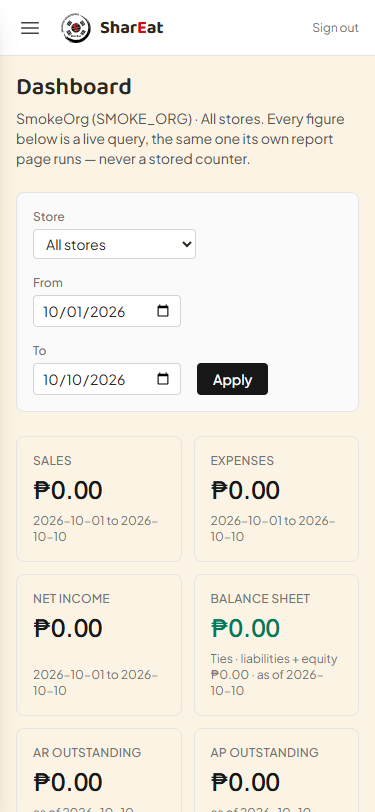
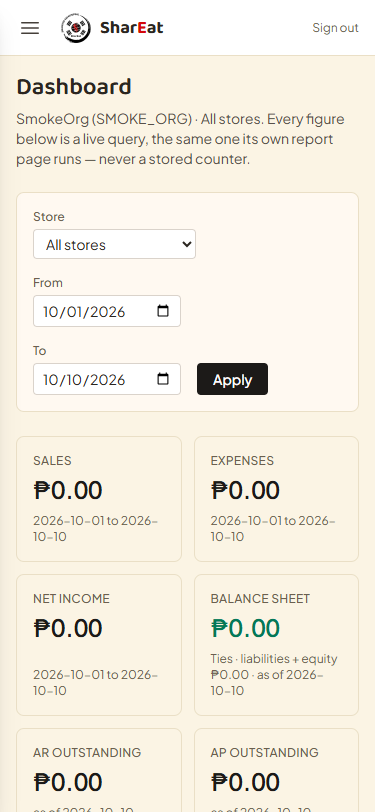
T-387 S1 addendum: re-value Tailwind's neutral ramp warm, so stock greys stop clashing with cream
Ian, after seeing S1: "go on and fix the clash in colors". The S1 screenshots showed the clash was
mostly stock neutral-* grey: 4,946 utilities in 154 of 171 files. Part of it was a regression:
stock text-neutral-500, the caption grey on 575 lines, is 4.34:1 on the new cream canvas, under AA.

One palette change fixes every file at once instead of sweeping 154 files ahead of the kit.
Six steps ARE ruled Amendment 7 tokens, chosen by how the app uses them (200/800 borders,
400/500 captions, 900/950 dark surface and canvas). The other five keep stock lightness in --ink's
warm hue, so no existing pair loses contrast. The test reads the anchors from globals.css.

Still S2 + S8: buttons stay near-black until they move onto Button (one brand-red primary per
view is a per-screen judgement, not a find-and-replace); stock emerald/amber/red banners and
badges until Banner/Badge. Screenshots refreshed.

diff --git a/apps/erp/tests/t387-s1-warm-neutral.test.ts b/apps/erp/tests/t387-s1-warm-neutral.test.ts
@@ -1,0 +1,108 @@
+/**
+ * T-387 S1 addendum: the stock `neutral` ramp, re-valued warm.
+ *
+ * ⭐ Why a ramp and not a sweep. 154 of 171 .tsx files carry 4,946 `neutral-*` utilities. On the
+ * cream canvas they read as cold grey islands, and one of them is worse than a look: stock
+ * `text-neutral-500` (575 lines, the caption colour) is 4.34:1 on `--canvas #fbf4e4`, under AA.
+ * Re-valuing the palette fixes every file at once, and S8 still moves the screens onto the kit.
+ *
+ * The rules this file holds the ramp to:
+ *   1. Where a step's job in the app IS a ruled token, it carries that token's hex exactly, read from
+ *      globals.css (never copied): 200 light borders, 400 dark captions, 500 light captions,
+ *      800 dark borders, 900 dark surface, 950 dark canvas.
+ *   2. Every other step keeps stock neutral's lightness (contrast against white within 3%), so no
+ *      existing text pair silently loses contrast.
+ *   3. The ramp gets darker at every step.
+ *   4. Captions clear AA where they are used: 500 on the light canvas, 400 on the dark surface.
+ */
+import { readFileSync } from 'node:fs';
+import { fileURLToPath } from 'node:url';
+
+import { describe, expect, it } from 'vitest';
+
+import { WARM_NEUTRAL } from '../warm-neutral';
+
+const here = fileURLToPath(new URL('.', import.meta.url));
+const css = readFileSync(`${here}../src/app/globals.css`, 'utf8').replace(/\/\*[\s\S]*?\*\//g, '');
+const tailwindConfig = readFileSync(`${here}../tailwind.config.ts`, 'utf8');
+const lightBlock = css.match(/:root\s*\{([\s\S]*?)\}/)?.[1] ?? '';
+const darkBlock = css.match(/:root\[data-theme='dark'\]\s*\{([\s\S]*?)\}/)?.[1] ?? '';
+
+function declaredIn(block: string, token: string): string | undefined {
+  return block.match(new RegExp(`(?<![\\w-])${token}\\s*:\\s*(#[0-9a-fA-F]{6})`))?.[1]?.toLowerCase();
+}
+
+function luminance(hex: string): number {
+  const ch = (c: number): number => {
+    const s = c / 255;
+    return s <= 0.04045 ? s / 12.92 : ((s + 0.055) / 1.055) ** 2.4;
+  };
+  const n = (i: number): number => Number.parseInt(hex.slice(i, i + 2), 16);
+  return 0.2126 * ch(n(1)) + 0.7152 * ch(n(3)) + 0.0722 * ch(n(5));
+}
+const contrast = (a: string, b: string): number => {
+  const [x, y] = [luminance(a), luminance(b)].sort((p, q) => q - p) as [number, number];
+  return (x + 0.05) / (y + 0.05);
+};
+
+/** Tailwind 3's stock neutral, the lightness reference for the steps that are not anchored. */
+const STOCK: Record<string, string> = {
+  50: '#fafafa', 100: '#f5f5f5', 200: '#e5e5e5', 300: '#d4d4d4', 400: '#a3a3a3', 500: '#737373',
+  600: '#525252', 700: '#404040', 800: '#262626', 900: '#171717', 950: '#0a0a0a',
+};
+const STEPS = Object.keys(STOCK);
+/** A step by its string key; `WARM_NEUTRAL` is keyed by number literals. */
+const at = (step: string): string => (WARM_NEUTRAL as Record<string, string>)[step] ?? '';
+
+const ANCHORS: Record<string, [block: string, token: string]> = {
+  200: [lightBlock, '--surface-border'],
+  400: [darkBlock, '--muted'],
+  500: [lightBlock, '--muted'],
+  800: [darkBlock, '--surface-border'],
+  900: [darkBlock, '--surface'],
+  950: [darkBlock, '--canvas'],
+};
+
+describe('T-387 S1 — the warm neutral ramp', () => {
+  it('has all eleven steps, each a 6-digit hex', () => {
+    expect(Object.keys(WARM_NEUTRAL).sort()).toEqual([...STEPS].sort());
+    for (const v of Object.values(WARM_NEUTRAL)) expect(v).toMatch(/^#[0-9a-f]{6}$/);
+  });
+
+  for (const [step, [block, token]] of Object.entries(ANCHORS)) {
+    it(`${step} IS the ruled ${token} (${block === darkBlock ? 'dark' : 'light'}), read from globals.css`, () => {
+      const ruled = declaredIn(block, token);
+      expect(ruled).toBeDefined();
+      expect(at(step)).toBe(ruled);
+    });
+  }
+
+  for (const step of STEPS.filter((s) => !(s in ANCHORS))) {
+    it(`${step} keeps stock lightness (contrast on white within 3%)`, () => {
+      const warm = contrast(at(step), '#ffffff');
+      const stock = contrast(STOCK[step]!, '#ffffff');
+      expect(Math.abs(warm - stock) / stock).toBeLessThan(0.03);
+    });
+    it(`${step} is warm, not grey (red channel above blue)`, () => {
+      const v = at(step);
+      expect(Number.parseInt(v.slice(1, 3), 16)).toBeGreaterThan(Number.parseInt(v.slice(5, 7), 16));
+    });
+  }
+
+  it('gets darker at every step', () => {
+    const lums = STEPS.map((s) => luminance(at(s)));
+    for (let i = 1; i < lums.length; i++) expect(lums[i]!).toBeLessThan(lums[i - 1]!);
+  });
+
+  it('⭐ captions clear AA where they sit: 500 on the cream canvas, 400 on the dark surface', () => {
+    expect(contrast(WARM_NEUTRAL[500], declaredIn(lightBlock, '--canvas')!)).toBeGreaterThanOrEqual(4.5);
+    expect(contrast(WARM_NEUTRAL[400], declaredIn(darkBlock, '--surface')!)).toBeGreaterThanOrEqual(4.5);
+    // NEGATIVE: the stock caption grey this replaces fails on cream. That is why the ramp exists.
+    expect(contrast(STOCK[500]!, declaredIn(lightBlock, '--canvas')!)).toBeLessThan(4.5);
+  });
+
+  it('tailwind.config re-values `neutral` with this ramp', () => {
+    expect(tailwindConfig).toMatch(/import \{ WARM_NEUTRAL \} from '\.\/warm-neutral'/);
+    expect(tailwindConfig).toMatch(/\bneutral:\s*WARM_NEUTRAL\b/);
+  });
+});

diff --git a/apps/erp/warm-neutral.ts b/apps/erp/warm-neutral.ts
@@ -1,0 +1,27 @@
+/**
+ * T-387 S1 addendum: Tailwind's `neutral` ramp, re-valued warm for SharEat Warm / Grill Night.
+ *
+ * 4,946 `neutral-*` utilities across 154 files read as cold grey on the cream canvas, and stock
+ * `text-neutral-500` (the caption colour, 575 lines) is 4.34:1 on `--canvas`, under AA. Re-valuing
+ * the palette fixes every file at once; S8 still moves the screens onto the kit.
+ *
+ * ⛔ Static hexes on purpose: a step is used as BOTH a light-mode and a `dark:` value (bg-neutral-900
+ * is the light primary button AND dark:bg-neutral-900 the dark surface), so a theme-switching
+ * `var()` would invert one of them. `t387-s1-warm-neutral.test.ts` keeps them honest:
+ *   - ANCHORED steps equal the ruled token in globals.css (read from the CSS, so they cannot drift).
+ *   - The other steps are stock neutral's OKLCH lightness in `--ink`'s warm hue (h 72°, C 0.013),
+ *     so their contrast against anything is within 3% of what it was.
+ */
+export const WARM_NEUTRAL = {
+  50: '#fff9f1',
+  100: '#fbf4ec',
+  200: '#eadfc6', // = light --surface-border (border-neutral-200, 422 lines)
+  300: '#dad3cb',
+  400: '#a89f92', // = dark --muted (dark:text-neutral-400, 721 lines): 6.64:1 on the dark surface
+  500: '#6b5f4f', // = light --muted (text-neutral-500, 575 lines): 5.68:1 on the cream canvas
+  600: '#57514a',
+  700: '#453f39',
+  800: '#34302b', // = dark --surface-border (dark:border-neutral-800, 421 lines)
+  900: '#1c1a18', // = dark --surface (dark:bg-neutral-900, 188 lines)
+  950: '#121110', // = dark --canvas (dark:bg-neutral-950, 154 lines)
+} as const;

diff --git a/apps/erp/tailwind.config.ts b/apps/erp/tailwind.config.ts
@@ -1,5 +1,7 @@
 import type { Config } from 'tailwindcss';
 
+import { WARM_NEUTRAL } from './warm-neutral';
+
 /**
  * A palette token that still honours Tailwind's `/opacity` modifier.
  *
@@ -48,6 +50,8 @@ export default {
         field: { DEFAULT: alpha('--field'), border: alpha('--field-border') },
         ink: alpha('--ink'),
         muted: alpha('--muted'),
+        // T-387 S1 addendum: the 4,946 stock neutral-* utilities, re-valued warm (see warm-neutral.ts).
+        neutral: WARM_NEUTRAL,
       },
       // next/font sets --font-body and --font-display on <html> (layout.tsx).
       fontFamily: {

diff --git a/docs/tasks/387-warm-theme-and-grill-night-dark.md b/docs/tasks/387-warm-theme-and-grill-night-dark.md
@@ -89,6 +89,20 @@ need for a migration stops and reports; that would be a spec change.
 - **Seen (§9.4 plus the render-first memory):** `/sign-in`, `/`, `/expenses/new` and `/reports/income-statement`, in
   light and dark. The screenshots go in the PR. Expect stock-hue islands (old banners, `bg-white` cards) to clash on
   cream. That is S8's job. List them; do not fix them here.
+- **Addendum (Opus lead, 2026-10-10, after Ian: *"go on and fix the clash in colors"*): the warm neutral ramp.**
+  - The S1 screenshots showed the clash came mostly from stock `neutral-*` grey: 4,946 utilities in 154 of 171 files.
+    One part of it was a regression, not a look: stock `text-neutral-500` (the caption grey, 575 lines) is 4.34:1 on
+    the new cream canvas, under AA.
+  - Fix: `apps/erp/warm-neutral.ts` re-values Tailwind's `neutral` palette (`tailwind.config.ts`). Six steps ARE
+    ruled tokens, chosen by how the app uses them: 200 = light `--surface-border`, 400 = dark `--muted`, 500 = light
+    `--muted`, 800 = dark `--surface-border`, 900 = dark `--surface`, 950 = dark `--canvas`. The other five keep stock
+    neutral's OKLCH lightness in `--ink`'s warm hue. No ruled value was re-picked; no new token was added.
+  - `t387-s1-warm-neutral.test.ts` reads the anchors from `globals.css`, holds the others within 3% of stock
+    contrast, checks the ramp is monotonic, and asserts captions clear AA on the cream canvas and the dark surface.
+  - ⛔ Not fixed by this, and still S2 + S8: buttons stay near-black (`bg-neutral-900` is now warm `#1c1a18`) until
+    they move onto `Button`; banners and badges keep stock emerald, amber and red until `Banner`/`Badge`; field
+    borders reach `--field-border` only through `Input`/`Select`. ⚠ S8 removes local `neutral-*` uses file by file;
+    the ramp is what keeps the files S8 has not reached yet on-brand meanwhile.
 
 ### S2: the kit reshaped (Button, Input, Card) plus SubmitButton
 - `Button`:
